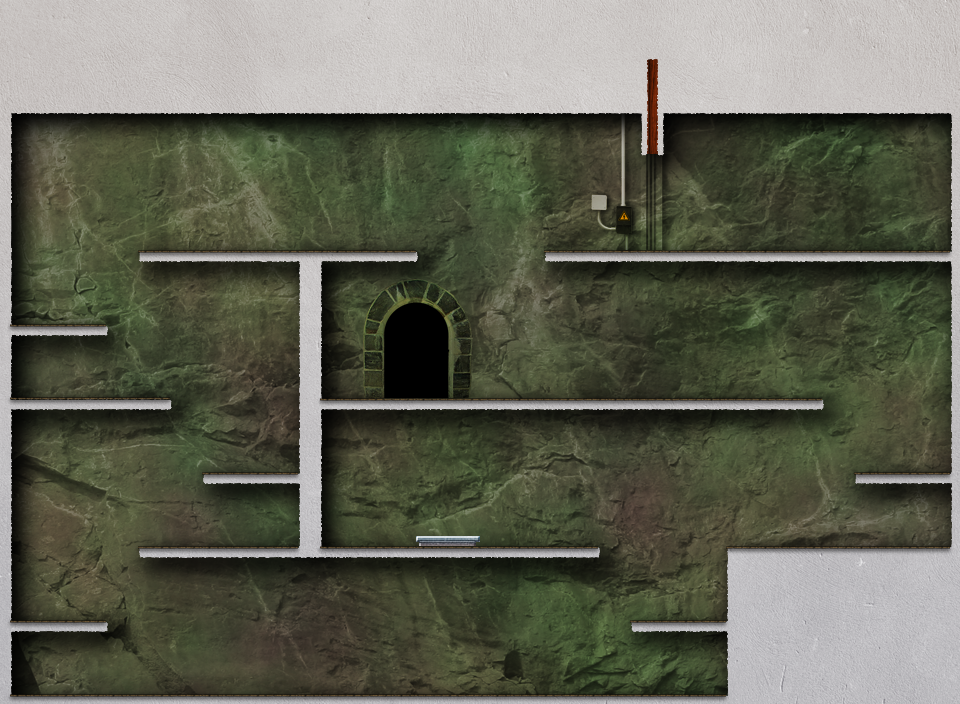
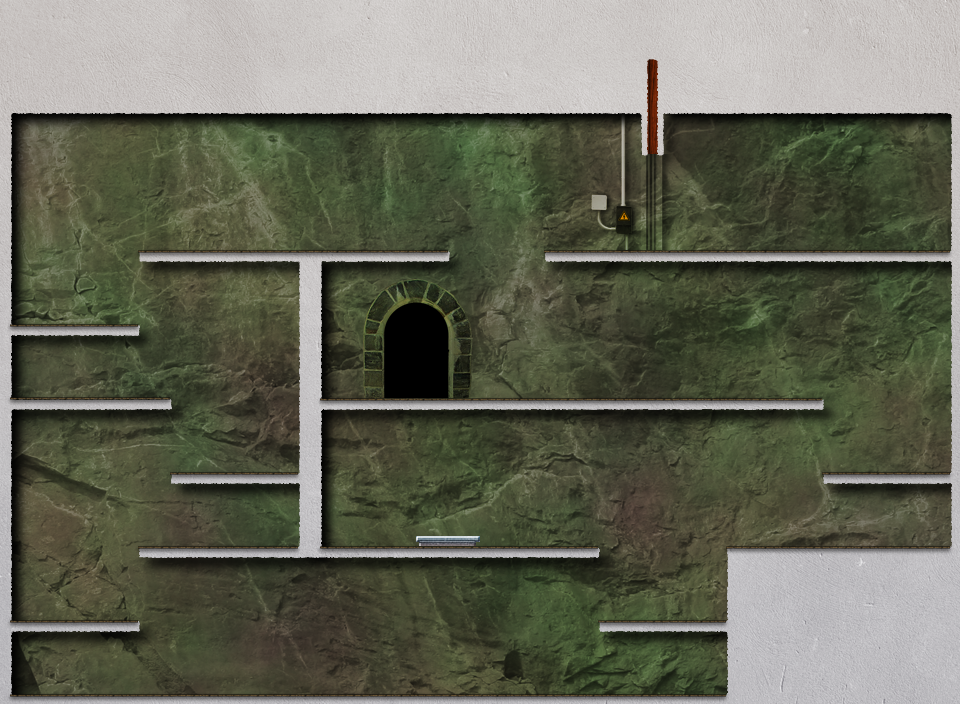
hianosää töö

diff --git a/assets/js/levels.js b/assets/js/levels.js
@@ -25,17 +25,17 @@ var Levels = {
 			key: {_x: 822, _y: 112},
 			time: 450,
 			floors: [
-				{ _x: 138, _y: 250, _width: 278, _height: 10 },
+				{ _x: 138, _y: 250, _width: 310, _height: 10 },
 				{ _x: 544, _y: 250, _width: 411, _height: 10 },
-				{ _x: 5, _y: 324, _width: 101, _height: 10 },
+				{ _x: 5, _y: 324, _width: 133, _height: 10 },
 				{ _x: 5, _y: 398, _width: 165, _height: 10 },
 				{ _x: 310, _y: 398, _width: 512, _height: 10 },
-				{ _x: 202, _y: 472, _width: 106, _height: 10 },
-				{ _x: 854, _y: 472, _width: 101, _height: 10 },
+				{ _x: 170, _y: 472, _width: 138, _height: 10 },
+				{ _x: 822, _y: 472, _width: 133, _height: 10 },
 				{ _x: 138, _y: 546, _width: 460, _height: 10 },
 				{ _x: 726, _y: 546, _width: 229, _height: 10 },
-				{ _x: 5, _y: 620, _width: 101, _height: 10 },
-				{ _x: 630, _y: 620, _width: 106, _height: 10 },
+				{ _x: 5, _y: 620, _width: 133, _height: 10 },
+				{ _x: 598, _y: 620, _width: 138, _height: 10 },
 				{ _x: 0, _y: 694, _width: 960, _height: 10 }
 			],
 			walls: [
@@ -80,7 +80,7 @@ var Levels = {
 				{ _x: 5, _y: 250, _width: 133, _height: 10 },
 				{ _x: 266, _y: 250, _width: 556, _height: 10 },
 				{ _x: 138, _y: 324, _width: 128, _height: 10 },
-				{ _x: 854, _y: 324, _width: 101, _height: 10 },
+				{ _x: 822, _y: 324, _width: 133, _height: 10 },
 				{ _x: 5, _y: 398, _width: 133, _height: 10 },
 				{ _x: 266, _y: 398, _width: 689, _height: 10 },
 				{ _x: 138, _y: 472, _width: 128, _height: 10 },
@@ -134,15 +134,15 @@ var Levels = {
 			floors: [
 				{ _x: 138, _y: 250, _width: 182, _height: 10 },
 				{ _x: 640, _y: 250, _width: 315, _height: 10 },
-				{ _x: 5, _y: 324, _width: 101, _height: 10 },
+				{ _x: 5, _y: 324, _width: 133, _height: 10 },
 				{ _x: 5, _y: 398, _width: 165, _height: 10 },
 				{ _x: 448, _y: 398, _width: 374, _height: 10 },
-				{ _x: 202, _y: 472, _width: 106, _height: 10 },
-				{ _x: 855, _y: 472, _width: 101, _height: 10 },
+				{ _x: 170, _y: 472, _width: 138, _height: 10 },
+				{ _x: 822, _y: 472, _width: 133, _height: 10 },
 				{ _x: 138, _y: 546, _width: 460, _height: 10 },
 				{ _x: 726, _y: 546, _width: 229, _height: 10 },
-				{ _x: 5, _y: 620, _width: 101, _height: 10 },
-				{ _x: 630, _y: 620, _width: 106, _height: 10 },
+				{ _x: 5, _y: 620, _width: 133, _height: 10 },
+				{ _x: 598, _y: 620, _width: 138, _height: 10 },
 				{ _x: 0, _y: 694, _width: 960, _height: 10 }
 			],
 			walls: [
@@ -186,9 +186,9 @@ var Levels = {
 			time: 450,
 			floors: [
 				{ _x: 5, _y: 250, _width: 336, _height: 10 },
-				{ _x: 469, _y: 250, _width: 75, _height: 10 },
+				{ _x: 469, _y: 250, _width: 107, _height: 10 },
 				{ _x: 672, _y: 250, _width: 182, _height: 10 },
-				{ _x: 373, _y: 324, _width: 101, _height: 10 },
+				{ _x: 341, _y: 324, _width: 133, _height: 10 },
 				{ _x: 106, _y: 398, _width: 492, _height: 10 },
 				{ _x: 726, _y: 398, _width: 128, _height: 10 },
 				{ _x: 598, _y: 472, _width: 128, _height: 10 },
@@ -196,7 +196,7 @@ var Levels = {
 				{ _x: 363, _y: 546, _width: 235, _height: 10 },
 				{ _x: 726, _y: 546, _width: 229, _height: 10 },
 				{ _x: 235, _y: 620, _width: 128, _height: 10 },
-				{ _x: 630, _y: 620, _width: 106, _height: 10 },
+				{ _x: 598, _y: 620, _width: 138, _height: 10 },
 				{ _x: 0, _y: 694, _width: 960, _height: 10 }
 			],
 			walls: [
@@ -240,15 +240,15 @@ var Levels = {
 			floors: [
 				{ _x: 5, _y: 250, _width: 283, _height: 10 },
 				{ _x: 790, _y: 250, _width: 165, _height: 10 },
-				{ _x: 544, _y: 324, _width: 214, _height: 10 },
+				{ _x: 544, _y: 324, _width: 246, _height: 10 },
 				{ _x: 138, _y: 398, _width: 150, _height: 10 },
 				{ _x: 657, _y: 398, _width: 165, _height: 10 },
 				{ _x: 5, _y: 472, _width: 101, _height: 10 },
 				{ _x: 544, _y: 472, _width: 101, _height: 10 },
-				{ _x: 855, _y: 472, _width: 101, _height: 10 },
+				{ _x: 822, _y: 472, _width: 133, _height: 10 },
 				{ _x: 5, _y: 546, _width: 266, _height: 10 },
 				{ _x: 726, _y: 546, _width: 229, _height: 10 },
-				{ _x: 630, _y: 620, _width: 106, _height: 10 },
+				{ _x: 598, _y: 620, _width: 138, _height: 10 },
 				{ _x: 0, _y: 694, _width: 960, _height: 10 }
 			],
 			walls: [
